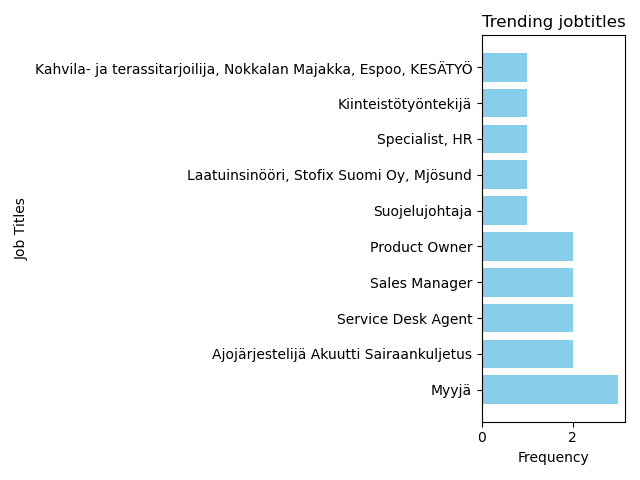
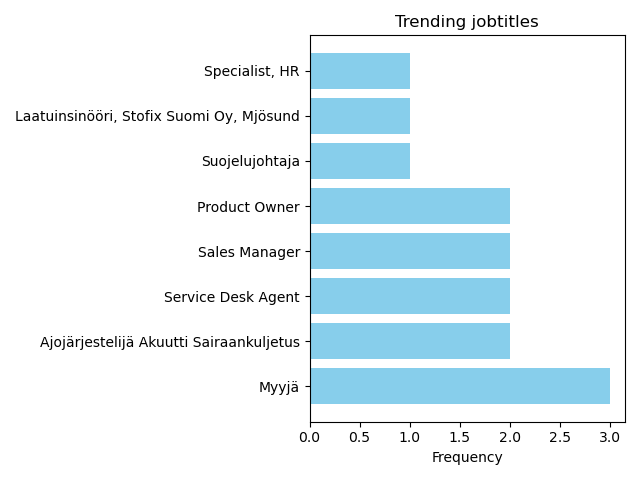
#18 made changes to plot

diff --git a/Flask.py b/Flask.py
@@ -65,13 +65,15 @@ def generate_trending_plot():
 
     popular_job_titles = sorted(
         job_title_frequencies.items(), key=lambda x: x[1], reverse=True
-    )[:10]
+    )[:8]
     popular_titles, frequencies = zip(*popular_job_titles)
     ax.barh(popular_titles, frequencies, color="skyblue")
 
     # Set labels and rotation for better visualization
     ax.set_xlabel("Frequency")
-    ax.set_ylabel("Job Titles")
+    ax.set_yticklabels(popular_titles, fontsize=10)  # Adjust fontsize as needed
+    plt.xticks(fontsize=10)  # Adjust x-axis tick font size as needed
+    plt.yticks(fontsize=10)
     plt.tight_layout()
     plt.savefig("static/trending_plot.png")
 
